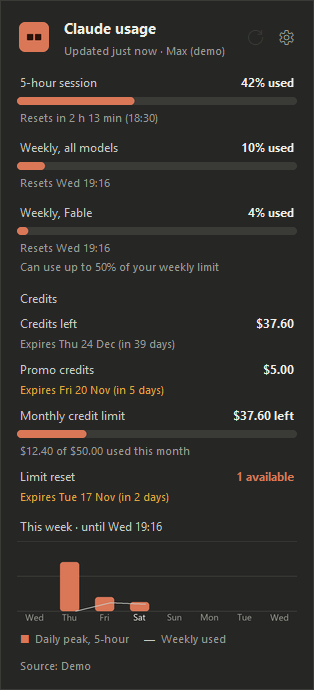
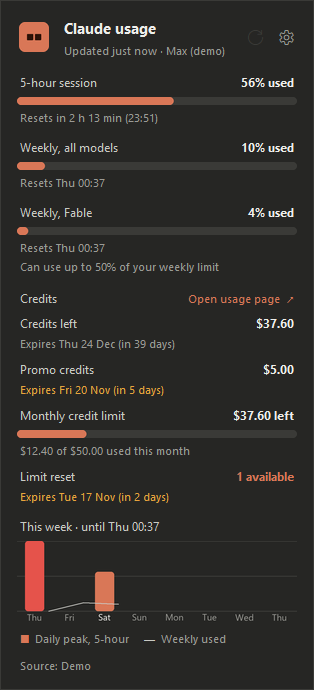
README: new screenshots for the usage window and each settings tab
Taken from --demo with a fresh data folder.

diff --git a/README.md b/README.md
@@ -25,7 +25,22 @@ It warns you before you run out (at 20%, 10% and 5% left) and tells you when a l
   </tr>
   <tr>
     <td valign="top"><img src="assets/screenshots/main.png" width="314" alt="Usage window"></td>
-    <td valign="top"><img src="assets/screenshots/settings.png" width="317" alt="Settings"></td>
+    <td valign="top"><img src="assets/screenshots/settings.png" width="314" alt="Settings, General tab"></td>
+  </tr>
+</table>
+
+The other settings tabs:
+
+<table>
+  <tr>
+    <td align="center"><b>Display</b></td>
+    <td align="center"><b>Alerts</b></td>
+    <td align="center"><b>Account</b></td>
+  </tr>
+  <tr>
+    <td valign="top"><img src="assets/screenshots/settings-display.png" width="250" alt="Settings, Display tab"></td>
+    <td valign="top"><img src="assets/screenshots/settings-alerts.png" width="250" alt="Settings, Alerts tab"></td>
+    <td valign="top"><img src="assets/screenshots/settings-account.png" width="250" alt="Settings, Account tab"></td>
   </tr>
 </table>
 
